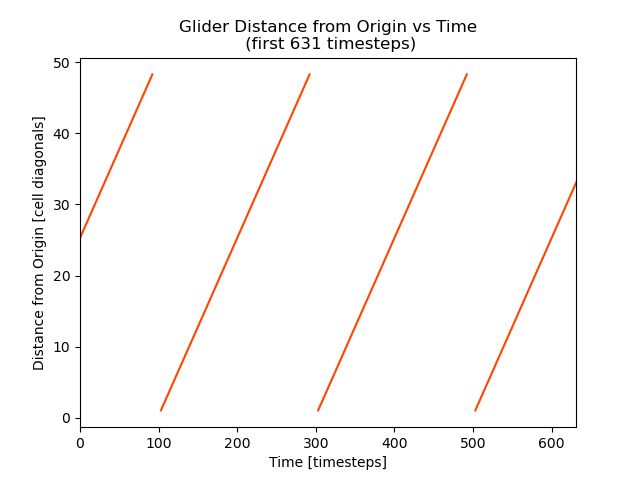
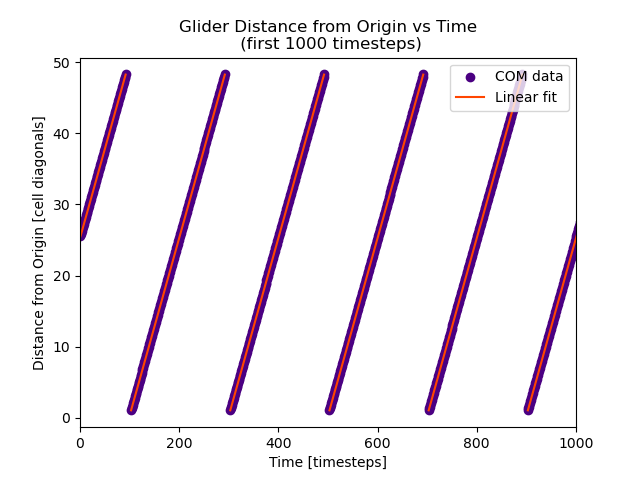
new gol task3 plot

diff --git a/checkpoint 2/gol_analysis.py b/checkpoint 2/gol_analysis.py
@@ -5,71 +5,76 @@ import argparse
 from scipy.optimize import curve_fit
 
 def task2(filename):
-        """
-        Plot a histogram of equilibration times from data in file.
+    """
+    Plot a histogram of equilibration times from data in file.
 
-        Arguments:
-            filename: Name of file containing equilibration time data
-        """
-        # Read equilibration time data from file
-        data = pd.read_csv(filename)['time'].values
-        # Plot histogram of equilibration times, discarding outliers above 4000 timesteps
-        plt.hist(data, bins=30, color='orangered', range=[0, 3500], label=r'$p = 0.5$')
-        plt.title("Distribution of Equilibration Times")
-        plt.xlabel("Equilibration Timesteps")
-        plt.ylabel("Occurrences")
-        plt.legend()
-        plt.show()
+    Arguments:
+        filename: Name of file containing equilibration time data
+    """
+    # Read equilibration time data from file
+    data = pd.read_csv(filename)['time'].values
+    # Plot histogram of equilibration times, discarding outliers above 4000 timesteps
+    plt.hist(data, bins=30, color='orangered', range=[0, 3500], label=r'$p = 0.5$')
+    plt.title("Distribution of Equilibration Times")
+    plt.xlabel("Equilibration Timesteps")
+    plt.ylabel("Occurrences")
+    plt.legend()
+    plt.show()
 
 def task3(filename):
-        """
-        Analyse the speed of the glider. Plot glider distance from origin against timestep.
-        Use curve fit to find gradient for multiple segments of motion, then plot histogram of speed distribution. 
-        Display the mean speed, and the standard error on the mean.
-        
-        Arguments:
-            filename: Name of file containing glider position data
-        """
-        # Read glider position data from file
-        data = pd.read_csv(filename)
-        t = data['t'].values
-        x = data['x'].values
-        y = data['y'].values
-        # Combine x and y position data to get total distance travelled at each time step
-        d = np.sqrt(x**2 + y**2)
-        # Split the data for crossing of periodic boundary conditions
-        splits = np.where(np.diff(t) > 1)[0] + 1
-        t_split = np.split(t, splits)
-        d_split = np.split(d, splits)
-        # Plot distance from origin vs time
-        upper_limit = 600
-        upper_t = t[upper_limit]
-        for T, D in zip(t_split, d_split):
-            # Divide by sqrt(2) to account for diagonal motion of glider
-            plt.plot(T, D/np.sqrt(2), color='orangered')
-        plt.title(f"Glider Distance from Origin vs Time\n (first {upper_t} timesteps)")
-        plt.xlabel("Time [timesteps]")
-        plt.ylabel("Distance from Origin [cell diagonals]")
-        plt.yticks([0, 10, 20, 30, 40, 50], ['0', '10', '20', '30', '40', '50'])
-        plt.xlim(0, upper_t)
-        plt.show()
-        # Define a linear function for curve fitting
-        linear_func = lambda t, m, c: m * t + c
-        # Fit the linear function to each segment of motion and extract the gradient (speed)
-        speeds = []
-        for times, distances in zip(t_split, d_split):
-            popt, _ = curve_fit(linear_func, times, distances)
-            # Divide by sqrt(2) to get speed in cells/timestep
-            speeds.append(popt[0]/np.sqrt(2))
-        # Calculate mean and standard error of the mean for the speeds
-        mean_speed = np.mean(speeds)
-        sem_speed = np.std(speeds, ddof=1) / np.sqrt(len(speeds))
-        # Print results
-        for i, speed in enumerate(speeds):
-            print(f'Speed {i+1} = {speed:.3f}c')
+    """
+    Analyse the speed of the glider. Plot glider distance from origin against timestep.
+    Use curve fit to find gradient for multiple segments of motion, then plot each fit over the data. 
+    Display the mean speed, and the standard error on the mean.
+    
+    Arguments:
+        filename: Name of file containing glider position data
+    """
+    # Read glider position data from file
+    data = pd.read_csv(filename)
+    t = data['t'].values
+    x = data['x'].values
+    y = data['y'].values
+    # Combine x and y position data to get total distance travelled at each time step
+    d = np.sqrt(x**2 + y**2)
+    # Split the data for crossing of periodic boundary conditions
+    splits = np.where(np.diff(t) > 1)[0] + 1
+    t_split = np.split(t, splits)
+    d_split = np.split(d, splits)
+    # Define a linear function for curve fitting
+    linear_func = lambda t, m, c: m * t + c
+    # Fit the linear function to each segment of motion and extract the gradient (speed)
+    speeds = []
+    intercepts = []
+    for times, distances in zip(t_split, d_split):
+        popt, _ = curve_fit(linear_func, times, distances)
+        # Divide by sqrt(2) to get speed in cells/timestep
+        speeds.append(popt[0]/np.sqrt(2))
+        intercepts.append(popt[1]/np.sqrt(2))
+    # Calculate mean and standard error on the mean for the speeds
+    mean_speed = np.mean(speeds)
+    sem_speed = np.std(speeds, ddof=1) / np.sqrt(len(speeds))
+    # Print results
+    for i, speed in enumerate(speeds):
+        print(f'Speed {i+1} = {speed:.2f}c')
 
-        print(f'Mean speed = {mean_speed:.3f} \u00B1 {sem_speed:.1f}c')
-        
+    print(f'Mean speed = {mean_speed:.2f} \u00B1 {sem_speed:.1f}c')
+    # Plot distance from origin vs time
+    upper_limit = 949
+    upper_t = t[upper_limit]
+    plt.scatter(t_split[0], d_split[0]/np.sqrt(2), color='indigo', marker='o', label='COM data')
+    plt.plot(t_split[0], linear_func(t_split[0], speeds[0], intercepts[0]), color='orangered', linestyle='-', label='Linear fit')
+    for T, D, S, I in zip(t_split[1:], d_split[1:], speeds[1:], intercepts[1:]):
+        # Divide data by sqrt(2) to account for diagonal motion of glider
+        plt.scatter(T, D/np.sqrt(2), color='indigo', marker='o')
+        plt.plot(T, linear_func(T, S, I), color='orangered', linestyle='-')
+    plt.title(f"Glider Distance from Origin vs Time\n (first {upper_t} timesteps)")
+    plt.xlabel("Time [timesteps]")
+    plt.ylabel("Distance from Origin [cell diagonals]")
+    plt.yticks([0, 10, 20, 30, 40, 50], ['0', '10', '20', '30', '40', '50'])
+    plt.xlim(0, upper_t)
+    plt.legend(loc='upper right')
+    plt.show()
 
 
 
